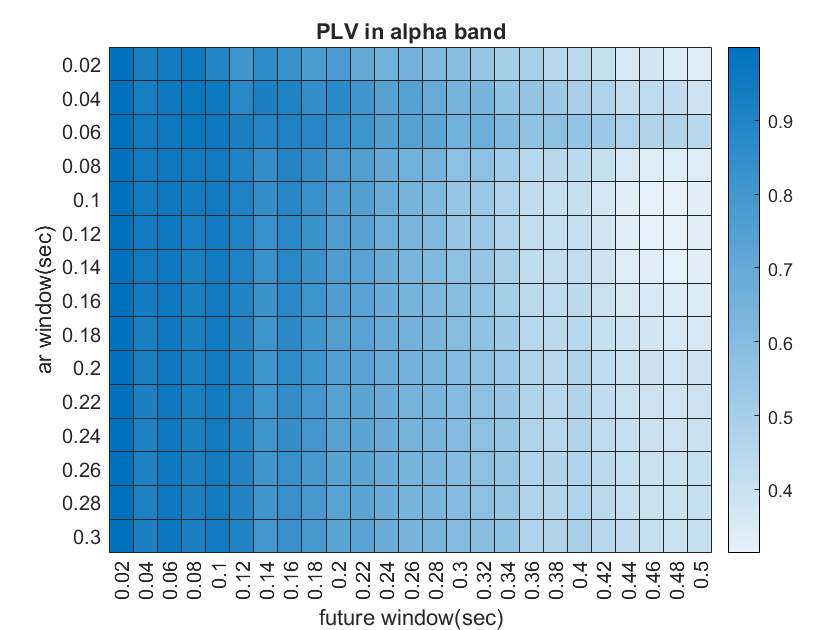
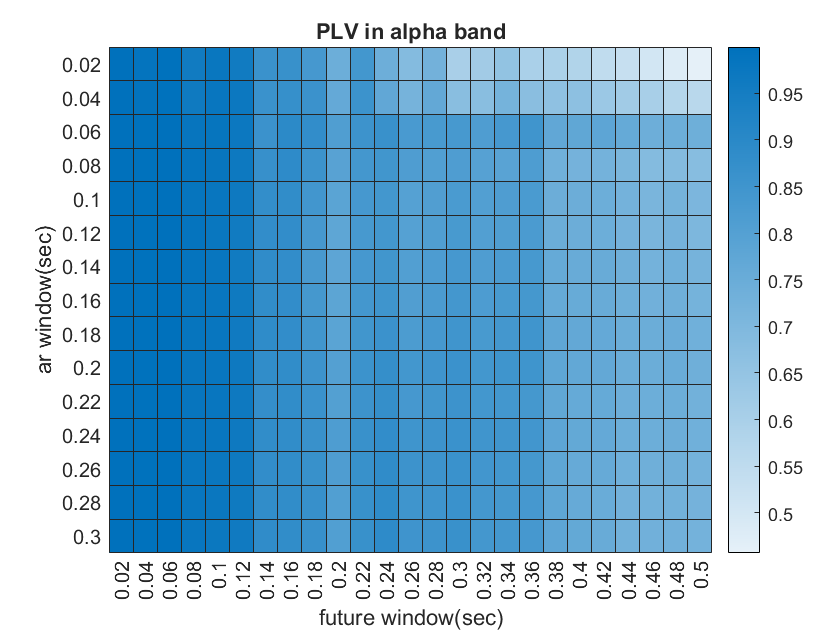
fix PLV bug

diff --git a/predict_targets.m b/predict_targets.m
@@ -1,0 +1,64 @@
+function [prediction,target_intervals] = predict_targets(epochs,target_val,predict_len,ord)
+%FIND_PEAK_INTERVAL Summary of this function goes here
+%   Detailed explanation goes here
+%   target_val can be 1, 2, 3, 4, indicating 0, 90, 180, 270 deg
+%   respectively
+%   epochs: time x channel
+targets=nan(size(epochs));
+for i=1:size(targets,2)
+    targets(:,i)=find_target_phase(epochs(:,i).');
+end
+
+targets=targets==target_val;
+%chnnel number
+M=size(epochs,2);
+prediction=false(predict_len,M);
+% coefficients=nan(ord,M);
+target_intervals=cell(1,M);
+n_intervals=nan(1,M);
+for i=1:M
+    target_arr=targets(:,i);
+    target_interval=diff(find(target_arr));
+    n_intervals(1,i)=numel(target_interval);
+    target_intervals{1,i}=target_interval;
+%     fprintf('channel %d\n',i);
+%     disp(target_interval);
+%     a = aryule(target_interval, ord);
+%     coefficients(:,i) = -1 * flip(a(:, 2:end));
+end
+
+min_n_intervals=min(n_intervals);% min number of target intervals among all the channels
+target_intervals=cellfun(@(x)x(end-min_n_intervals+1:end,1),target_intervals,...
+    'UniformOutput',false);
+target_intervals=cell2mat(target_intervals);%min_n_interval x M
+% disp(size(coefficients));
+%   predicted location of next target
+
+
+next_loc=zeros(1,M);
+while median(next_loc)<predict_len%stop when half of the channels exceed the prediction length
+
+%     print_arr(target_intervals(end-ord+1:end,:));
+    next_interval=mean(target_intervals(end-ord+1:end,:),1);
+    target_intervals(end+1,:)=next_interval;
+    
+    next_loc=next_loc+next_interval;
+    
+        
+%     fprintf('next interval=')
+%     print_arr(next_interval);
+%     fprintf('next location=');
+%     print_arr(next_loc);
+    for i=1:M
+        if round(next_loc(i))<=predict_len
+            try
+                prediction(round(next_loc(i)),i)=true;
+            catch ME
+                fprintf('index=%d\n',round(next_loc(i)));
+                rethrow(ME);
+            end
+        end
+    end
+end 
+end
+

diff --git a/find_target_phase.m b/find_target_phase.m
@@ -1,0 +1,61 @@
+function [targets] = find_target_phase(EEG)
+%UNTITLED Summary of this function goes here
+%   Detailed explanation goes here
+% EEG: 1 x time points
+% target has 5 type of elememnt 1=>0 degree 2=.90 degree 3=>180 degree
+% 4=>270 degree 0=> otherwise
+targets=zeros(size(EEG));
+[~,loc2]=findpeaks(EEG);
+% disp('loc2');
+% disp(loc2);
+[~,loc4]=findpeaks(-EEG);
+% disp('loc4');
+% disp(loc4);
+peak_loc=sort(horzcat(loc2,loc4));
+grad=gradient(EEG);
+[~,loc1]=findpeaks(grad);
+[~,loc3]=findpeaks(-grad);
+for i=loc1
+    targets(i)=1;
+end
+for i=loc2
+    targets(i)=2;
+end
+for i=loc3
+    targets(i)=3;
+end
+for i=loc4
+    targets(i)=4;
+end
+targets=remove_incorrect_phase(targets,peak_loc);
+end
+function targets=remove_incorrect_phase(targets,peak_loc)              
+    for i=1:numel(peak_loc)-1
+        peak_type=targets(peak_loc(i));
+        for j=peak_loc(i)+1:peak_loc(i+1)-1
+            %3 must follow 2, 1 must follow 4. Otherwise, remove that
+            %target.
+            if targets(j)~=mod(peak_type+1,4)
+                targets(j)=0;
+            end
+        end
+    end
+    %remove the incorrect phases after the last peak
+    peak_type=targets(peak_loc(end));
+    for i=peak_loc(end)+1:numel(targets)
+        if targets(i)~=mod(peak_type+1,4)
+            targets(i)=0;
+        end
+    end
+    %remove the incorrect phases before the first peak
+    peak_type=targets(peak_loc(1));
+    for i=peak_loc(1)-1:-1:1
+        %1 must go before 2; 3 must go before 4.  Otherwise, remove that
+        %target.
+        if targets(i)~=mod(peak_type-1,4)
+            targets(i)=0;
+        end
+    end
+        
+end
+

diff --git a/phase_error.m b/phase_error.m
@@ -160,9 +160,11 @@ for past_window=past_windows
         
         filtSpec.order = 50;
         filtSpec.range = fpass; %Hz
-        eeg1=reshape(predicted_futureEEG',1,numel(predicted_futureEEG));
-        eeg2=reshape(real_futureEEG',1,numel(real_futureEEG));
-        plv = my_eegPLV(eeg1,eeg2, samplerate, filtSpec);
+        plv=0;
+        for trial=1:n_trial
+            plv=plv+ my_eegPLV(predicted_futureEEG(trial,:),real_futureEEG(trial,:), samplerate, filtSpec);
+        end
+        plv=plv/n_trial;
         PLVmap(idx1,idx2)=plv;
         idx2=idx2+1;
     end
@@ -210,9 +212,11 @@ for past_window=ar_windows
         
         filtSpec.order = 50;
         filtSpec.range = fpass; %Hz
-        eeg1=reshape(predicted_futureEEG',1,numel(predicted_futureEEG));
-        eeg2=reshape(real_futureEEG',1,numel(real_futureEEG));
-        plv = my_eegPLV(eeg1,eeg2, samplerate, filtSpec);
+        plv=0;
+        for trial=1:n_trial
+            plv=plv+ my_eegPLV(predicted_futureEEG(trial,:),real_futureEEG(trial,:), samplerate, filtSpec);
+        end
+        plv=plv/n_trial;
         PLVmap(idx1,idx2)=plv;
         idx2=idx2+1;
     end
